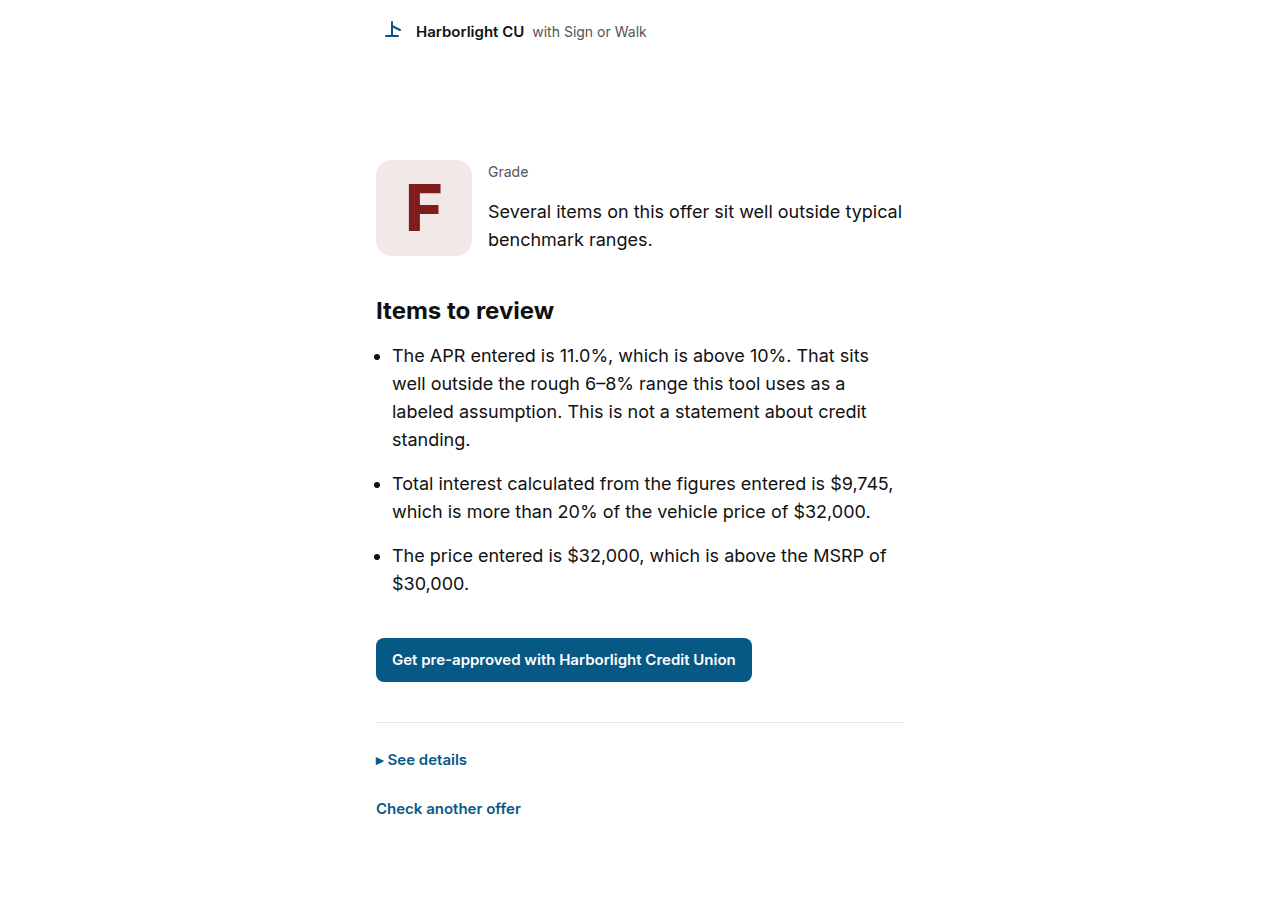
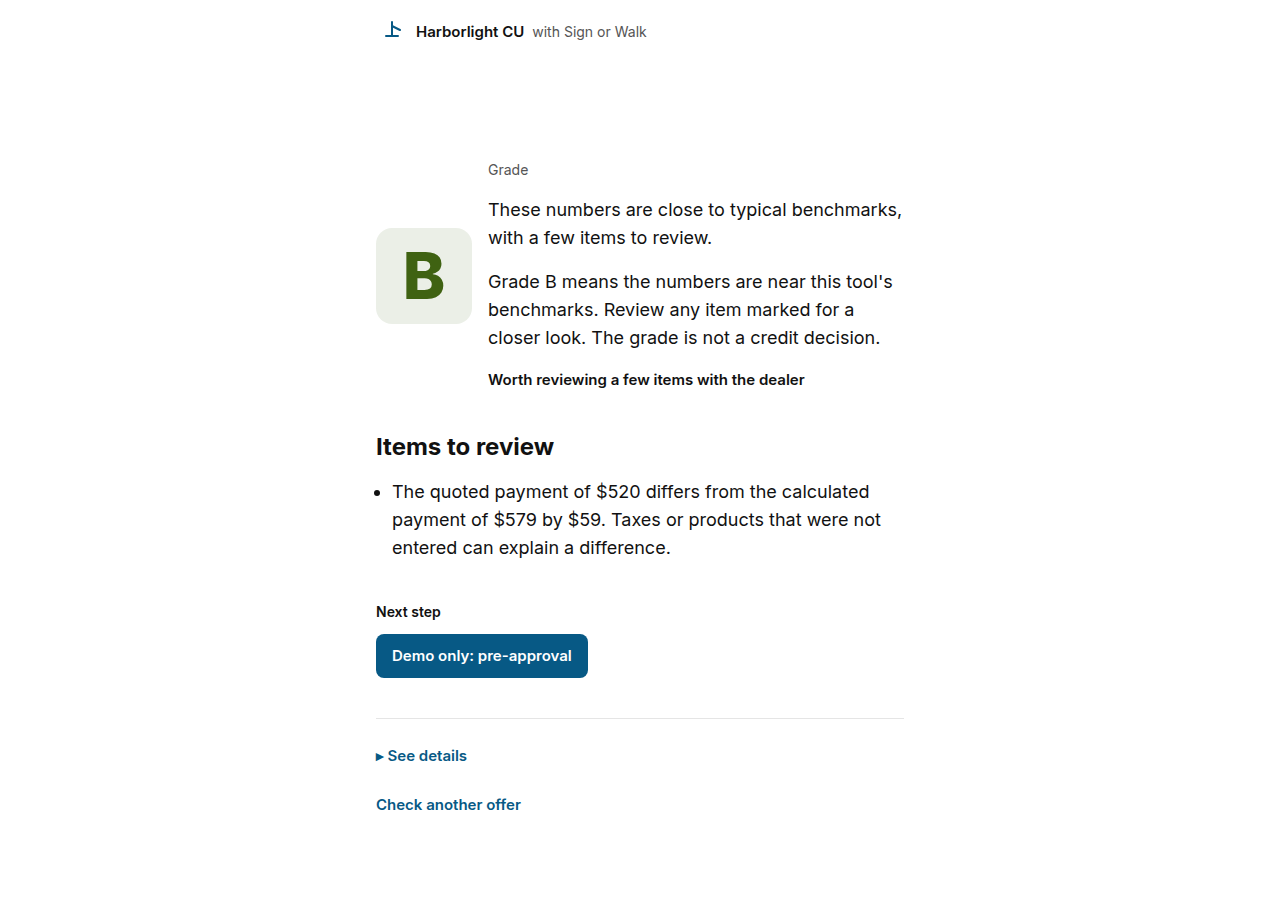
Allow same-origin embeds and show the member check on the plans page.
Middleware reads the tenant allowlist itself, so a blocked internal fetch no longer forces frame-ancestors 'none'. Credit-union pages skip the Impact script, and the demo pages explain the grade instead of leaving a blank frame.

diff --git a/src/middleware.ts b/src/middleware.ts
@@ -1,7 +1,6 @@
 import { NextResponse } from 'next/server';
 import type { NextRequest } from 'next/server';
-import { readFrameAncestorCache } from '@/cu/cu-store';
-import { FRAME_ANCESTORS_HEADER, acceptAncestors, embedTenantId, frameAncestorsToken } from '@/cu/embed';
+import { FRAME_ANCESTORS_HEADER, embedTenantId, frameAncestorsForPath, frameAncestorsToken } from '@/cu/embed';
 import { securityHeaderList } from '@/cu/headers';
 import { missingTenantResponse } from '@/cu/missing-page';
 import { cuPathDisposition } from '@/cu/not-found-path';
@@ -9,32 +8,15 @@ import { cuPathDisposition } from '@/cu/not-found-path';
 /**
  * Runs only for the credit-union marketing page and /cu/[tenant].
  * Consumer routes are not matched, so they stay as they are on main.
- * Node runtime shares the process store with pages. The embed route is still
- * asked for the allowlist, because a separate bundle cannot see that store.
+ * Embed frame-ancestors are read here from the tenant allowlist. A protected
+ * Preview rejects an internal HTTP hop, and treating that failure as 'none'
+ * blocks same-origin iframes.
  */
 export const runtime = 'nodejs';
 
-async function ancestorsFromNode(req: NextRequest): Promise<string | null> {
-  const pathname = req.nextUrl.pathname;
-  const id = embedTenantId(pathname);
-  if (!id) return null;
-  const cached = readFrameAncestorCache(id, Date.now());
-  if (cached) return cached;
-  try {
-    const url = req.nextUrl.clone();
-    url.pathname = '/api/cu/frame-ancestors';
-    url.search = `?path=${encodeURIComponent(pathname)}`;
-    const res = await fetch(url, {
-      cache: 'no-store',
-      headers: { [FRAME_ANCESTORS_HEADER]: frameAncestorsToken() },
-      signal: AbortSignal.timeout(1500),
-    });
-    if (!res.ok) return "'none'";
-    const data = await res.json() as { ancestors?: unknown };
-    return acceptAncestors(data.ancestors) ?? "'none'";
-  } catch {
-    return "'none'";
-  }
+async function ancestorsForEmbed(pathname: string): Promise<string | null> {
+  if (!embedTenantId(pathname)) return null;
+  return frameAncestorsForPath(pathname);
 }
 
 /** 404 HTML for a missing credit union, or null when the page should render. */
@@ -73,7 +55,7 @@ export async function middleware(req: NextRequest) {
   const pathname = req.nextUrl.pathname;
   const [blocked, stored] = await Promise.all([
     missingCreditUnionResponse(pathname, id => tenantIsPresent(req, id)),
-    ancestorsFromNode(req),
+    ancestorsForEmbed(pathname),
   ]);
   if (blocked) return blocked;
   const res = NextResponse.next();

diff --git a/src/app/credit-unions/page.tsx b/src/app/credit-unions/page.tsx
@@ -54,9 +54,18 @@ export default function CreditUnionsPage() {
           See it in action.{' '}
           <Link href="/credit-unions/embed-demo" className={textLink}>Open live demo</Link>
         </p>
-        <p className="mt-10 max-w-[640px] text-[14px] leading-[20px] cu-muted">
-          The trial requires an email confirmation before you can save.
+      </div>
+
+      <div className="mx-auto mt-10 w-full max-w-[960px] px-4 md:hidden">
+        <p className="mt-10 text-[14px] leading-[20px] cu-muted md:hidden">
+          See it in action.{' '}
+          <Link href="/credit-unions/embed-demo" className={textLink}>Open live demo</Link>
         </p>
+        <iframe
+          title="Check a dealer offer"
+          src="/cu/harborlight-cu/embed?entry=numbers"
+          className="mt-4 h-[720px] w-full border cu-line"
+        />
       </div>
 
       <div className="mt-16 cu-band py-16 md:mt-24">
@@ -69,7 +78,8 @@ export default function CreditUnionsPage() {
                   key={tier.id}
                   className={`cu-card flex flex-col rounded-[12px] bg-white p-6 ${marked ? 'cu-card-marked' : ''}`}
                 >
-                  <h2 className="text-[24px] font-bold leading-[30px]">{tier.name}</h2>
+                  {tier.id === 'growth' ? <p className="text-[14px] font-semibold leading-[20px]">Recommended</p> : null}
+                  <h2 className={`text-[24px] font-bold leading-[30px] ${tier.id === 'growth' ? 'mt-2' : ''}`}>{tier.name}</h2>
                   <p className="mt-4 text-[14px] leading-[20px] cu-muted">{ASSETS[tier.id]}</p>
                   <p className="mt-4 text-[32px] font-bold leading-[32px] tabular-nums">{formatUsd(tier.annualUsd)}/yr</p>
                   <Link href={`/credit-unions/get-started?tier=${tier.id}`} className={`${marked ? solidButton : outlineButton} mt-4`}>
@@ -81,9 +91,8 @@ export default function CreditUnionsPage() {
             })}
           </ul>
 
-          <p className="mt-10 text-[14px] leading-[20px] cu-muted md:hidden">
-            See it in action.{' '}
-            <Link href="/credit-unions/embed-demo" className={textLink}>Open live demo</Link>
+          <p className="mt-10 max-w-[640px] text-[14px] leading-[20px] cu-muted">
+            The trial requires an email confirmation before you can save.
           </p>
 
           <AiDisclosure />

diff --git a/src/app/layout.tsx b/src/app/layout.tsx
@@ -1,5 +1,6 @@
 import type { Metadata } from 'next';
 import { Analytics } from '@vercel/analytics/next';
+import { ConsumerTrackers } from '@/components/ConsumerTrackers';
 import './globals.css';
 
 export const metadata: Metadata = {
@@ -22,39 +23,11 @@ export const metadata: Metadata = {
   },
 };
 
-const structuredData = [
-  {
-    '@context': 'https://schema.org',
-    '@type': 'Organization',
-    name: 'Sign or Walk',
-    url: 'https://signorwalk.com',
-    logo: 'https://signorwalk.com/icon',
-  },
-  {
-    '@context': 'https://schema.org',
-    '@type': 'WebApplication',
-    name: 'Sign or Walk',
-    url: 'https://signorwalk.com',
-    description: 'Free AI-powered car deal grader. Get an honest grade on your lease or finance deal — every red flag, every number, word-for-word negotiation script.',
-    applicationCategory: 'FinanceApplication',
-    operatingSystem: 'Any',
-    offers: { '@type': 'Offer', price: '0', priceCurrency: 'USD' },
-  },
-];
-
 export default function RootLayout({ children }: { children: React.ReactNode }) {
   return (
     <html lang="en">
       <head>
-        {
-          // @ts-expect-error -- Impact.com uses non-standard value attribute
-          <meta name='impact-site-verification' value='e7de6a6f-016b-4648-9f9c-158540f33c60' />
-        }
-        <script type="text/javascript" dangerouslySetInnerHTML={{ __html: `(function(i,m,p,a,c,t){c.ire_o=p;c[p]=c[p]||function(){(c[p].a=c[p].a||[]).push(arguments)};t=a.createElement(m);var z=a.getElementsByTagName(m)[0];t.async=1;t.src=i;z.parentNode.insertBefore(t,z)})('https://utt.impactcdn.com/P-A7326631-016a-4fce-96e4-0cd9e935d1861.js','script','impactStat',document,window);impactStat('transformLinks');impactStat('trackImpression');` }} />
-        <script
-          type="application/ld+json"
-          dangerouslySetInnerHTML={{ __html: JSON.stringify(structuredData) }}
-        />
+        <ConsumerTrackers />
       </head>
       <body className="min-h-screen bg-slate-50">
         {children}

diff --git a/src/components/ConsumerTrackers.tsx b/src/components/ConsumerTrackers.tsx
@@ -1,0 +1,44 @@
+'use client';
+
+import { usePathname } from 'next/navigation';
+
+const structuredData = [
+  {
+    '@context': 'https://schema.org',
+    '@type': 'Organization',
+    name: 'Sign or Walk',
+    url: 'https://signorwalk.com',
+    logo: 'https://signorwalk.com/icon',
+  },
+  {
+    '@context': 'https://schema.org',
+    '@type': 'WebApplication',
+    name: 'Sign or Walk',
+    url: 'https://signorwalk.com',
+    description: 'Free AI-powered car deal grader. Get an honest grade on your lease or finance deal — every red flag, every number, word-for-word negotiation script.',
+    applicationCategory: 'FinanceApplication',
+    operatingSystem: 'Any',
+    offers: { '@type': 'Offer', price: '0', priceCurrency: 'USD' },
+  },
+];
+
+/** Consumer routes only. Credit-union CSP does not allow the Impact host. */
+export function ConsumerTrackers() {
+  const pathname = usePathname() ?? '';
+  if (pathname === '/cu' || pathname.startsWith('/cu/') || pathname === '/credit-unions' || pathname.startsWith('/credit-unions/')) {
+    return null;
+  }
+  return (
+    <>
+      {
+        // @ts-expect-error -- Impact.com uses non-standard value attribute
+        <meta name='impact-site-verification' value='e7de6a6f-016b-4648-9f9c-158540f33c60' />
+      }
+      <script type="text/javascript" dangerouslySetInnerHTML={{ __html: `(function(i,m,p,a,c,t){c.ire_o=p;c[p]=c[p]||function(){(c[p].a=c[p].a||[]).push(arguments)};t=a.createElement(m);var z=a.getElementsByTagName(m)[0];t.async=1;t.src=i;z.parentNode.insertBefore(t,z)})('https://utt.impactcdn.com/P-A7326631-016a-4fce-96e4-0cd9e935d1861.js','script','impactStat',document,window);impactStat('transformLinks');impactStat('trackImpression');` }} />
+      <script
+        type="application/ld+json"
+        dangerouslySetInnerHTML={{ __html: JSON.stringify(structuredData) }}
+      />
+    </>
+  );
+}

diff --git a/src/app/credit-unions/embed-demo/EmbedDemo.tsx b/src/app/credit-unions/embed-demo/EmbedDemo.tsx
@@ -26,17 +26,20 @@ export function EmbedDemo() {
   }, []);
 
   return (
-    <main className="mx-auto w-full max-w-[800px] px-4 py-10">
-      <p className="text-[14px] leading-[20px] cu-muted">Host page</p>
-      <h1 className="mt-2 text-[32px] font-bold leading-[38px]">Harborlight embed</h1>
-      <p id="sow-embed-events" className="mt-4 text-[15px] leading-[24px]">
+    <main className="mx-auto w-full max-w-[800px] px-4 py-10 md:py-16">
+      <p className="text-[14px] font-semibold leading-[20px] cu-muted">Demo only</p>
+      <h1 className="mt-4 text-[32px] font-extrabold leading-[38px]">See the member check</h1>
+      <p className="mt-6 text-[18px] leading-[28px]">
+        This is the check a member would use, framed the way it sits on a credit union site. Harborlight Credit Union is fictional. Enter numbers from a worksheet. No application is taken, and this is not a rate or an offer of credit.
+      </p>
+      <p id="sow-embed-events" className="sr-only">
         Resize height: {height ?? '—'} · Completed grade: {grade ?? '—'}
       </p>
       <iframe
         id="sow-cu"
         title="Check a dealer offer"
         src="/cu/harborlight-cu/embed?entry=numbers"
-        className="mt-6 w-full border cu-line"
+        className="mt-8 w-full border cu-line"
         style={{ height: height ?? 720 }}
       />
     </main>

diff --git a/test/cu-embed.test.ts b/test/cu-embed.test.ts
@@ -195,9 +195,22 @@ test('embed CSP fails closed and does not fall back to the config seeds', async 
   assert.match(middleware, /AbortSignal\.timeout\(1500\)/);
   assert.match(middleware, /FRAME_ANCESTORS_HEADER/);
   assert.equal(FRAME_ANCESTORS_HEADER, 'x-cu-frame-ancestors');
-  assert.match(middleware, /return "'none'"/);
+  assert.match(middleware, /frameAncestorsForPath/);
+  assert.equal(middleware.includes('/api/cu/frame-ancestors'), false);
+  assert.equal(middleware.includes(`return "'none'"`), false);
   assert.equal(middleware.includes(`return "'self'"`), false);
 
+  resetCuStore();
+  const permitted = await frameAncestorsForPath('/cu/harborlight-cu/embed');
+  assert.notEqual(permitted, "'none'");
+  assert.match(permitted, /'self'/);
+  assert.match(permitted, /https:\/\/www\.harborlightcu\.example/);
+  const framed = await securityHeaderList('/cu/harborlight-cu/embed', permitted);
+  const framedCsp = framed.find(header => header.key === 'Content-Security-Policy')!.value;
+  assert.equal(framedCsp.includes("frame-ancestors 'none'"), false);
+  assert.equal(framed.find(header => header.key === 'X-Frame-Options'), undefined);
+
+  resetCuStore();
   const path = '/cu/harborlight-cu/embed';
   const thrown = await resolveFrameAncestors(path, async () => {
     throw new Error('lookup-failed');

diff --git a/src/app/cu/[tenant]/CheckForm.tsx b/src/app/cu/[tenant]/CheckForm.tsx
@@ -271,6 +271,8 @@ export function CheckForm({
             <h1 ref={headingRef} tabIndex={-1} className="text-[18px] leading-[28px] md:mt-4">
               <span className="sr-only">{report.grade}. </span>{report.headline}
             </h1>
+            <p className="mt-4 text-[18px] leading-[28px]">{report.gradeExplanation}</p>
+            <p className="mt-4 text-[15px] font-semibold leading-[24px]">{report.recommendationLabel}</p>
           </div>
         </div>
 
@@ -287,6 +289,7 @@ export function CheckForm({
           <div className={embedded
             ? 'static mt-10 w-full'
             : 'fixed inset-x-0 bottom-0 border-t cu-line bg-white p-4 md:static md:mt-10 md:border-0 md:bg-transparent md:p-0'}>
+            <p className="mb-3 text-[14px] font-semibold leading-[20px]">Next step</p>
             <Primary
               wide={embedded}
               href={memberLink(tenant.preApprovalUrl)}

diff --git a/src/app/credit-unions/get-started/page.tsx b/src/app/credit-unions/get-started/page.tsx
@@ -42,7 +42,8 @@ export default async function GetStartedPage({
   return (
     <div className="flex min-h-screen items-center px-4">
       <div className="mx-auto w-full max-w-[480px] py-16 md:py-24">
-        <h1 className="text-[32px] font-extrabold leading-[38px] md:text-[48px] md:leading-[52px]">{heading}</h1>
+        {tier?.id === 'growth' ? <p className="text-[14px] font-semibold leading-[20px]">Recommended</p> : null}
+        <h1 className={`text-[32px] font-extrabold leading-[38px] md:text-[48px] md:leading-[52px] ${tier?.id === 'growth' ? 'mt-2' : ''}`}>{heading}</h1>
         <p className="mt-6 text-[18px] leading-[28px] cu-muted">No credit card. The trial runs for 90 days.</p>
         {error ? <p className="mt-4 text-[14px] font-semibold leading-[20px]" role="alert">{error}</p> : null}
         <form action={startTrialAction} className="mt-6 grid gap-4">

diff --git a/src/app/credit-unions/AiDisclosure.tsx b/src/app/credit-unions/AiDisclosure.tsx
@@ -1,5 +1,5 @@
 import Link from 'next/link';
-import { AI_FACTS, PILOT_MARK } from '@/cu/copy';
+import { PILOT_MARK, UPLOAD_DISCLOSURE } from '@/cu/copy';
 
 const link = 'font-semibold cu-ink underline decoration-1 underline-offset-4 cu-linkline cu-ring';
 
@@ -7,9 +7,7 @@ export function AiDisclosure() {
   return (
     <div className="mt-10 text-[14px] leading-[20px] cu-muted">
       <p className="font-semibold cu-ink">{PILOT_MARK}</p>
-      {AI_FACTS.map(line => (
-        <p key={line} className="mt-2">{line}</p>
-      ))}
+      <p className="mt-2">{UPLOAD_DISCLOSURE} The longer description is on the privacy page.</p>
       <p className="mt-4">
         <Link href="/credit-unions/privacy" className={link}>Privacy</Link>
         {' · '}

diff --git a/test/cu-platform.test.ts b/test/cu-platform.test.ts
@@ -265,7 +265,9 @@ test('growth copy and the worksheet route stay on the approved words', () => {
   assert.match(page, /Free for 90 days\. No card\./);
   assert.equal(page.includes('Cancel anytime'), false);
   assert.equal(page.includes('DemoFrame'), false);
-  assert.equal(page.includes('/cu/harborlight-cu/embed'), false);
+  assert.match(page, /\/cu\/harborlight-cu\/embed\?entry=numbers/);
+  assert.match(page, /Recommended/);
+  assert.equal(page.includes('Most chosen'), false);
   assert.match(page, /Over \$5B\? Email us\./);
   assert.match(page, /\{' · '\}/);
   assert.match(page, /mailto:\$\{TALK_TO_US_EMAIL\}/);
